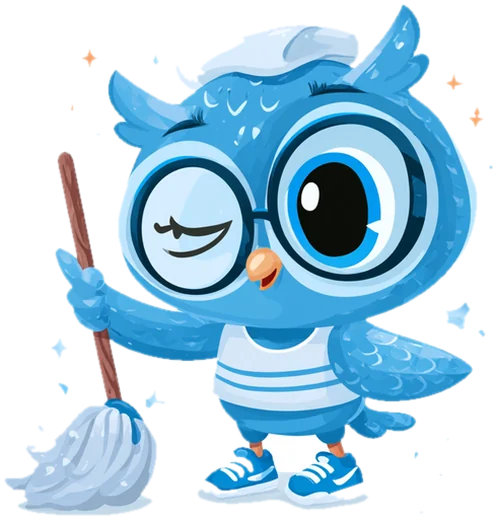
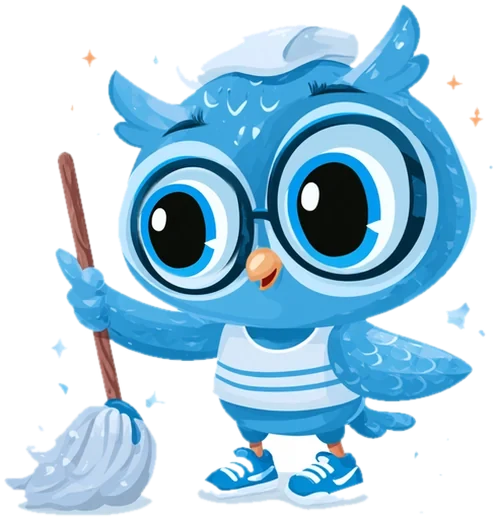
Susie: both eyes open, with a smooth natural blink
- The winking eye in the source image is replaced by a copy of her open
  eye, so she looks straight ahead with both eyes
- Eyelids drawn in code over each lens: both close together (fast
  ease-in), hold a beat, open softer (ease-out), with a curved lash line
- Blinks every 2.6-6 s at irregular intervals, sometimes a double blink,
  and a happy blink when tapped; off with reduced motion; cache v37

Claude-Session: https://claude.ai/code/session_01NCact4aDAsqaAQirQTKuQo

Changed region(s): [[0.2716, 0.3077, 0.5131, 0.5538]]

diff --git a/styles.css b/styles.css
@@ -1577,8 +1577,8 @@ h1, h2 { font-family: var(--serif); font-weight: 750; font-variation-settings: '
 .pool { position: absolute; inset: 0; touch-action: none; user-select: none; -webkit-user-select: none; }
 .pool canvas { display: block; }
 .susie-float { position: absolute; left: 0; top: 0; pointer-events: none; will-change: transform; }
-.susie-float img { position: relative; z-index: 1; display: block; width: 100%; height: auto; animation: susie-bob 3.4s ease-in-out infinite; transition: scale .25s cubic-bezier(.3, 1.6, .5, 1); filter: drop-shadow(0 6px 10px rgba(10, 40, 90, .25)); }
-.susie-float.held img { scale: 1.08; }
+.susie-float .susie { position: relative; z-index: 1; display: block; width: 100%; height: auto; animation: susie-bob 3.4s ease-in-out infinite; transition: scale .25s cubic-bezier(.3, 1.6, .5, 1); filter: drop-shadow(0 6px 10px rgba(10, 40, 90, .25)); }
+.susie-float.held .susie { scale: 1.08; }
 .susie-float .buoy { position: absolute; left: -8%; width: 116%; height: auto; bottom: -6%; pointer-events: none; }
 .susie-float .buoy.back { z-index: 0; }
 .susie-float .buoy.front { z-index: 2; }
@@ -1628,8 +1628,8 @@ h1, h2 { font-family: var(--serif); font-weight: 750; font-variation-settings: '
 .bubble.b2 { animation-delay: 1.3s; animation-duration: 5s; } .bubble.b3 { animation-delay: 2.4s; }
 @keyframes bubble-up { 0% { transform: translateY(0); opacity: 0; } 15% { opacity: .9; } 100% { transform: translateY(-120px); opacity: 0; } }
 .susie-home { position: absolute; left: 50%; bottom: 12%; width: 54%; padding: 0; border: 0; background: none; transform: translateX(-50%); cursor: pointer; -webkit-tap-highlight-color: transparent; }
-.susie-home img { display: block; width: 100%; height: auto; transform-origin: 50% 100%; animation: susie-idle 3.6s ease-in-out infinite; filter: drop-shadow(0 8px 12px rgba(20, 60, 120, .22)); }
-.susie-home.hop img { animation: susie-hop .7s cubic-bezier(.3, 1.5, .5, 1); }
+.susie-home .susie { display: block; width: 100%; height: auto; transform-origin: 50% 100%; animation: susie-idle 3.6s ease-in-out infinite; filter: drop-shadow(0 8px 12px rgba(20, 60, 120, .22)); }
+.susie-home.hop .susie { animation: susie-hop .7s cubic-bezier(.3, 1.5, .5, 1); }
 @keyframes susie-idle { 0%, 100% { transform: translateY(0) rotate(0); } 30% { transform: translateY(-4px) rotate(-1.5deg); } 70% { transform: translateY(-2px) rotate(1.5deg); } }
 @keyframes susie-hop { 0% { transform: translateY(0) scale(1, 1); } 20% { transform: translateY(0) scale(1.08, .9); } 50% { transform: translateY(-34px) scale(.95, 1.06) rotate(-4deg); } 80% { transform: translateY(0) scale(1.06, .94); } 100% { transform: translateY(0) scale(1, 1); } }
 .susie-say { position: absolute; top: 4%; right: -4%; max-width: 62%; margin: 0; padding: 9px 13px; border-radius: 16px 16px 4px 16px; background: var(--ink); color: var(--bg); font: 600 14px/1.3 var(--font); box-shadow: 0 10px 22px -12px rgba(0, 0, 0, .5); }
@@ -1648,11 +1648,11 @@ h1, h2 { font-family: var(--serif); font-weight: 750; font-variation-settings: '
 .tab.on { color: var(--accent); }
 .tab.on svg { fill: color-mix(in srgb, var(--accent) 20%, transparent); }
 /* Susie ailleurs : quart enregistré (elle saute de joie), écrans vides. */
-.sent-crew .susie-img { display: block; width: 180px; height: auto; margin: 0 auto; transform-origin: 50% 100%; animation: susie-cheer 1.6s cubic-bezier(.3, 1.4, .5, 1) .2s 2 both; }
+.sent-crew .susie-img { display: block; position: relative; width: 180px; height: auto; margin: 0 auto; transform-origin: 50% 100%; animation: susie-cheer 1.6s cubic-bezier(.3, 1.4, .5, 1) .2s 2 both; }
 @keyframes susie-cheer { 0%, 100% { transform: none; } 25% { transform: translateY(-26px) rotate(-6deg); } 50% { transform: none; } 75% { transform: translateY(-14px) rotate(5deg); } }
-.folder-empty .susie-img { width: 110px; height: auto; animation: susie-idle 3.6s ease-in-out infinite; }
+.folder-empty .susie-img { display: block; position: relative; width: 110px; height: auto; animation: susie-idle 3.6s ease-in-out infinite; }
 @media (prefers-reduced-motion: reduce) {
-  .susie-float img, .susie-home img, .wave, .bubble, .sent-crew .susie-img, .folder-empty .susie-img, .pool-hello, .pool-cta, .pool-login { animation: none !important; }
+  .susie-float .susie, .susie-home .susie, .wave, .bubble, .sent-crew .susie-img, .folder-empty .susie-img, .pool-hello, .pool-cta, .pool-login { animation: none !important; }
   .auth-sheet, .bucket-level { transition: none; }
 }
 /* Accueil plus léger, comme une app : petit logo, pas de grand en-tête. */
@@ -1660,3 +1660,23 @@ h1, h2 { font-family: var(--serif); font-weight: 750; font-variation-settings: '
 #setup .brand-floor { margin-top: 2px; font-size: 11px; }
 #setup .setup-top { align-items: center; }
 #setup .home-hero h1 { font-size: 34px; }
+
+/* Susie cligne des yeux : des paupières par-dessus chaque verre de lunettes.
+   Fermeture rapide (ease-in), ouverture plus douce (ease-out), bord courbé. */
+.susie { position: relative; display: block; }
+.susie > img { display: block; width: 100%; height: auto; }
+.susie .lid { position: absolute; border-radius: 50%; overflow: hidden; pointer-events: none; }
+.susie .lid.r { left: 57.34%; top: 26.15%; width: 26.56%; height: 25.38%; }
+.susie .lid.l { left: 27.97%; top: 32.88%; width: 21.33%; height: 20.38%; }
+.susie .lid i { position: absolute; inset: -4% -4% -2%; border-radius: 0 0 50% 50% / 0 0 26% 26%;
+  background: linear-gradient(180deg, #2f7fd0 0%, #4a9fe6 60%, #6db6ee 100%);
+  box-shadow: inset 0 -3px 0 #16304f, 0 1px 1px rgba(0, 0, 0, .15);
+  transform: translateY(-104%); }
+.susie.blink .lid i { animation: susie-blink .24s both; }
+@keyframes susie-blink {
+  0% { transform: translateY(-104%); animation-timing-function: cubic-bezier(.55, 0, .9, .45); }
+  38% { transform: translateY(0); }
+  55% { transform: translateY(0); animation-timing-function: cubic-bezier(.1, .55, .45, 1); }
+  100% { transform: translateY(-104%); }
+}
+@media (prefers-reduced-motion: reduce) { .susie.blink .lid i { animation: none; } }

diff --git a/index.html b/index.html
@@ -32,7 +32,7 @@
       <canvas></canvas>
       <div class="susie-float">
         <svg class="buoy back" viewBox="0 0 200 80"><defs><clipPath id="buoyTop"><rect width="200" height="40"/></clipPath></defs><g clip-path="url(#buoyTop)"><ellipse cx="100" cy="40" rx="96" ry="34" fill="#ff8fb3"/><ellipse cx="100" cy="40" rx="96" ry="34" fill="none" stroke="#fff" stroke-width="10" stroke-dasharray="22 30" opacity=".85"/><ellipse cx="100" cy="40" rx="58" ry="17" fill="#2f8ae6" opacity=".55"/></g></svg>
-        <img src="icons/susie.webp" alt="" draggable="false">
+        <span class="susie"><img src="icons/susie.webp" alt="" draggable="false"><span class="lid r"><i></i></span><span class="lid l"><i></i></span></span>
         <svg class="buoy front" viewBox="0 0 200 80"><defs><clipPath id="buoyBot"><rect y="40" width="200" height="40"/></clipPath><mask id="buoyHole"><rect width="200" height="80" fill="#fff"/><ellipse cx="100" cy="40" rx="58" ry="17" fill="#000"/></mask></defs><g clip-path="url(#buoyBot)" mask="url(#buoyHole)"><ellipse cx="100" cy="40" rx="96" ry="34" fill="#ff8fb3"/><ellipse cx="100" cy="40" rx="96" ry="34" fill="none" stroke="#fff" stroke-width="10" stroke-dasharray="22 30" opacity=".85"/><ellipse cx="100" cy="52" rx="80" ry="18" fill="none" stroke="rgba(255,255,255,.55)" stroke-width="4"/></g></svg>
       </div>
     </div>
@@ -135,7 +135,7 @@
           </g>
           <circle cx="100" cy="100" r="94" class="bucket-rim"/>
         </svg>
-        <button type="button" class="susie-home" id="susieHome" data-label="susieName"><img src="icons/susie.webp" alt="" draggable="false"></button>
+        <button type="button" class="susie-home" id="susieHome" data-label="susieName"><span class="susie"><img src="icons/susie.webp" alt="" draggable="false"><span class="lid r"><i></i></span><span class="lid l"><i></i></span></span></button>
         <p class="susie-say" id="susieSay" aria-live="polite" hidden></p>
       </div>
       <div class="bucket-count"><b class="num" id="bucketNum"></b><span id="bucketLbl"></span></div>

diff --git a/js/app.js b/js/app.js
@@ -188,7 +188,7 @@ function paintStatic() {
 }
 
 // Susie, la mascotte : son seau se remplit avec les tâches faites aujourd'hui.
-const SUSIE = (cls = '') => `<img class="susie-img ${cls}" src="icons/susie.webp" alt="" draggable="false">`;
+const SUSIE = (cls = '') => `<span class="susie susie-img ${cls}"><img src="icons/susie.webp" alt="" draggable="false"><span class="lid r"><i></i></span><span class="lid l"><i></i></span></span>`;
 function todayProgress() {
   const count = (st) => {
     try {
@@ -218,11 +218,28 @@ function paintCrew() {
   const sent = $('#sentCrew');
   if (sent) sent.innerHTML = SUSIE('cheer');
 }
+// Les clignements de Susie : les deux yeux ensemble, à intervalles un peu
+// irréguliers (comme un vrai clignement), parfois deux de suite.
+function blinkNow(el) {
+  if (!el || reducedMotion()) return;
+  el.classList.remove('blink'); void el.offsetWidth; el.classList.add('blink');
+  setTimeout(() => el.classList.remove('blink'), 260);
+}
+(function blinkLoop() {
+  setTimeout(() => {
+    if (!document.hidden) for (const el of document.querySelectorAll('.susie')) if (el.offsetParent) {
+      blinkNow(el);
+      if (Math.random() < 0.22) setTimeout(() => blinkNow(el), 330);
+    }
+    blinkLoop();
+  }, 2600 + Math.random() * 3400);
+})();
 // Toucher Susie : elle saute et dit un mot d'encouragement.
 let sayTimer = 0;
 $('#susieHome')?.addEventListener('click', () => {
   const btn = $('#susieHome');
   btn.classList.remove('hop'); void btn.offsetWidth; btn.classList.add('hop');
+  blinkNow(btn.querySelector('.susie'));
   const say = $('#susieSay');
   const lines = t('susieLines');
   say.textContent = lines[Math.floor(Math.random() * lines.length)];

diff --git a/sw.js b/sw.js
@@ -1,6 +1,6 @@
 // Garde l'app utilisable sans réseau (sous-sol, Wi-Fi faible).
 // Réseau d'abord, cache en secours; l'API n'est jamais mise en cache.
-const CACHE = 'quart-gym-v36';
+const CACHE = 'quart-gym-v37';
 const SHELL = ['./', 'index.html', 'styles.css', 'manifest.webmanifest', 'icons/icon.svg',
   'js/app.js', 'js/config.js', 'js/manual.js', 'js/planner.js', 'js/report.js', 'js/photos.js', 'js/i18n.js', 'js/illustrations.js', 'js/board.js', 'js/board-shape.js', 'js/auth.js', 'js/problems.js', 'js/problem-shape.js', 'js/pool.js', 'icons/susie.webp', 'js/gym3d.js', 'js/floor-layout.js', 'fonts/fraunces-latin-full-normal.woff2', 'fonts/saira-semi-condensed-latin-300-normal.woff2', 'fonts/saira-semi-condensed-latin-500-normal.woff2', 'fonts/saira-semi-condensed-latin-600-normal.woff2', 'fonts/saira-semi-condensed-latin-700-normal.woff2', 'icons/logo-sportheque.png', 'icons/logo-sportheque-dark.png', 'icons/mark-sportheque.png', 'icons/mark-sportheque-dark.png'];
 
